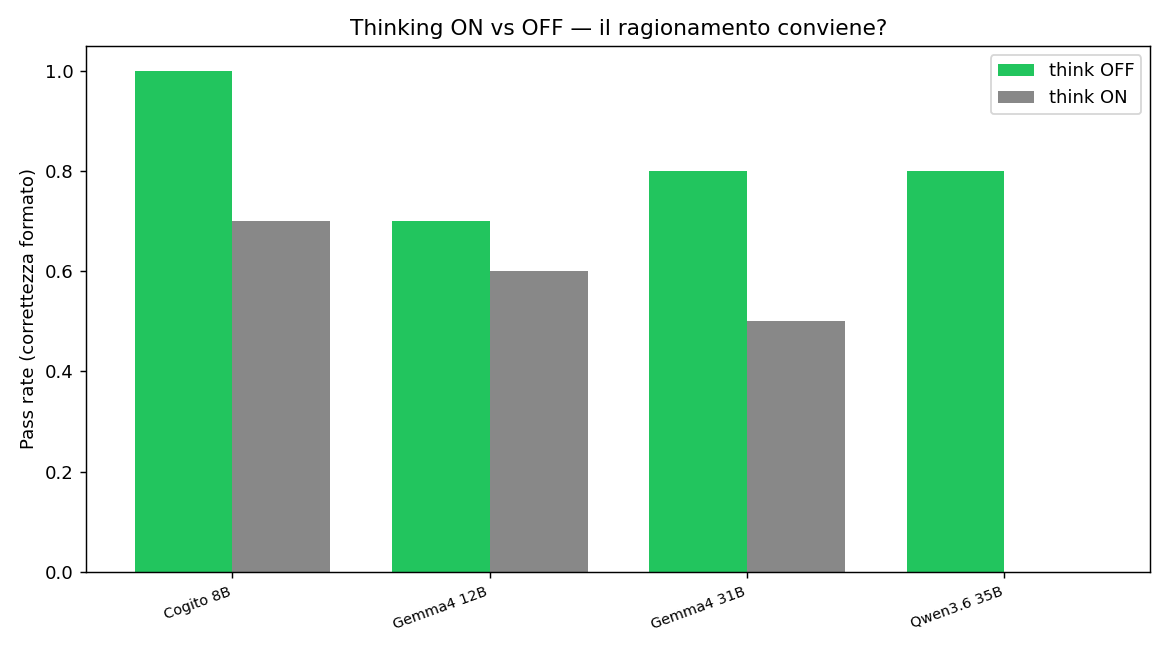
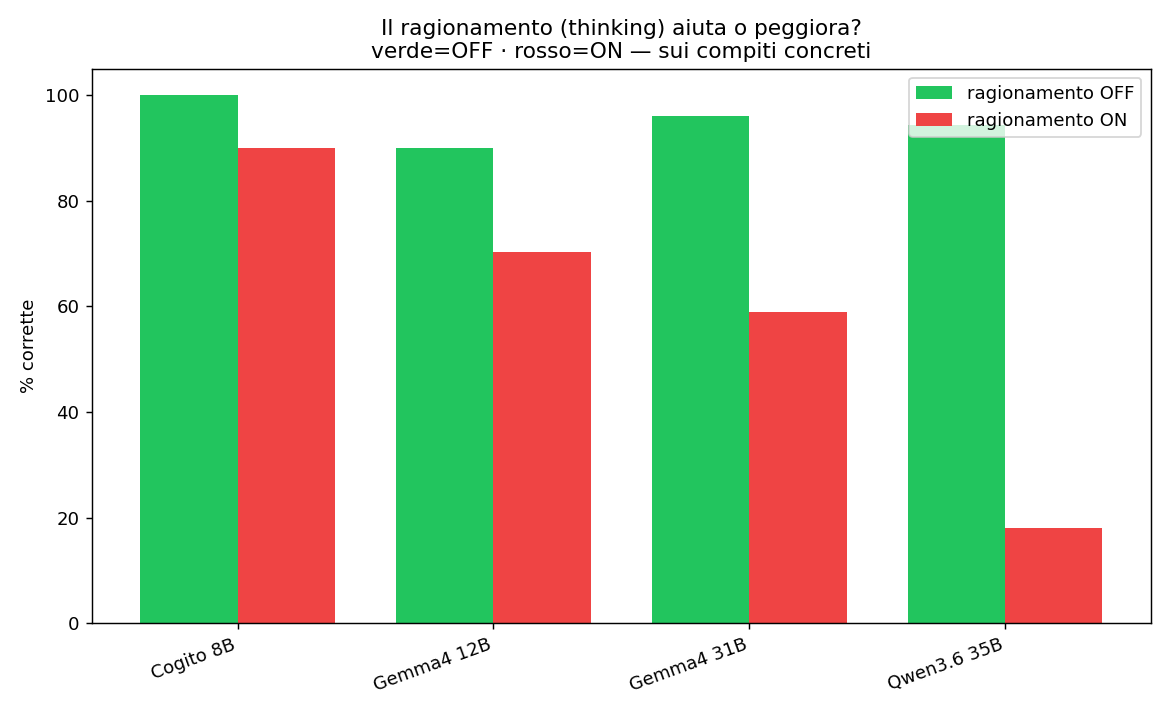
Pub #10: prova sperimentale thinking ON vs OFF (OFF vince sempre, Qwen 94%->18%) + grafico

Changed region(s): [[0.0, 0.0308, 0.9846, 0.9846], [0.5538, 0.1538, 0.6462, 0.2769]]

diff --git a/docs/10-cogito-ragionare-peggiora.md b/docs/10-cogito-ragionare-peggiora.md
@@ -18,6 +18,20 @@ In un altro nostro test abbiamo chiesto a decine di modelli di parlarci di cose 
 ## Perché succede
 Il "ragionamento" non è pensiero vero: è il modello che **genera altro testo** prima della risposta. Se la direzione è giusta, aiuta. Se la premessa è sbagliata (o il compito è secco e numerico), quel testo in più diventa **un modo elaborato per allontanarsi dalla risposta corretta** — o per giustificare una premessa falsa.
 
+## La prova sperimentale (thinking ON vs OFF)
+L'abbiamo misurato di proposito: gli stessi modelli, sugli stessi compiti concreti, con il ragionamento **acceso** e **spento**. Il risultato è netto — **spento vince sempre**:
+
+| Modello | Ragionamento ON | Ragionamento OFF |
+|---|---|---|
+| Cogito 8B | 90% | **100%** |
+| Gemma 12B | 70% | **90%** |
+| Gemma 31B | 59% | **96%** |
+| Qwen 35B | **18%** | **94%** |
+
+Il caso Qwen è impressionante: dal **94% al 18%** solo accendendo il ragionamento. Più il modello "pensa", più si perde.
+
+![Thinking on vs off](../report/chart_thinking.png)
+
 ## Quando conviene, allora?
 Non stiamo dicendo che il ragionamento è inutile. Nei nostri test **aiuta** su un solo tipo di compito: quello **aperto e creativo** (una strategia, un'idea originale). Lì fa la differenza — anzi, senza ragionamento tutti i modelli proponevano la stessa cosa ovvia, e solo quelli "che pensano" divergevano.
 